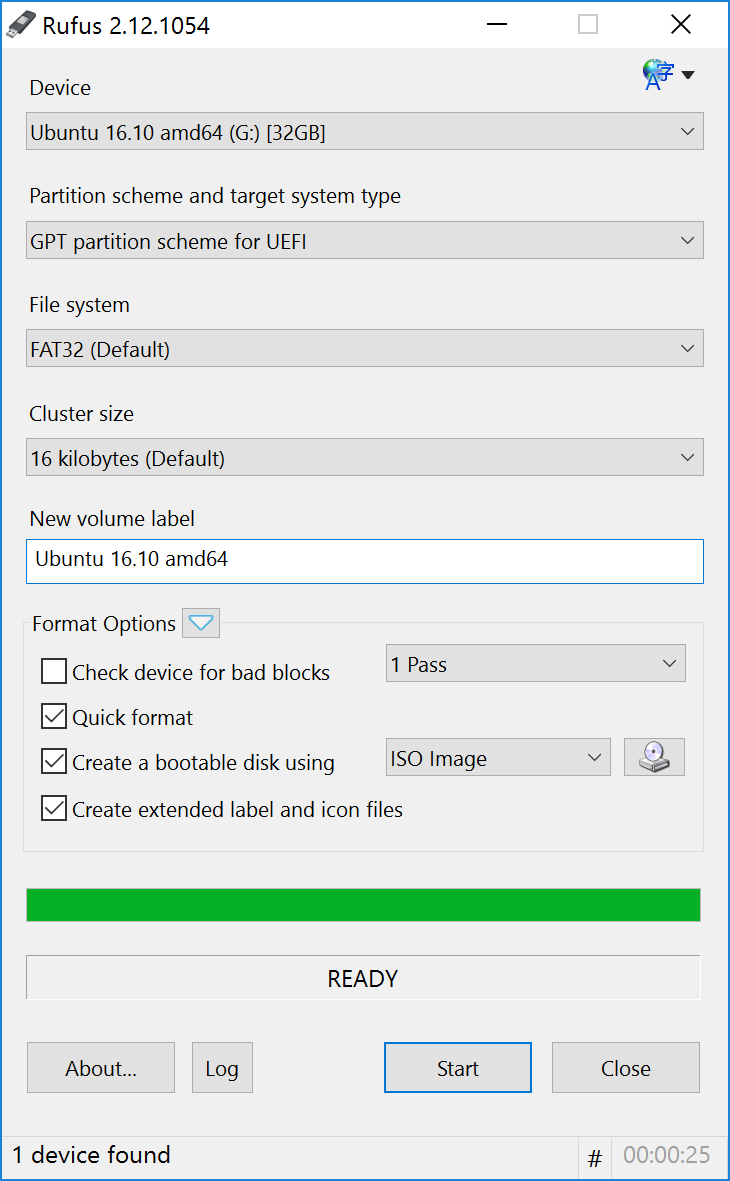
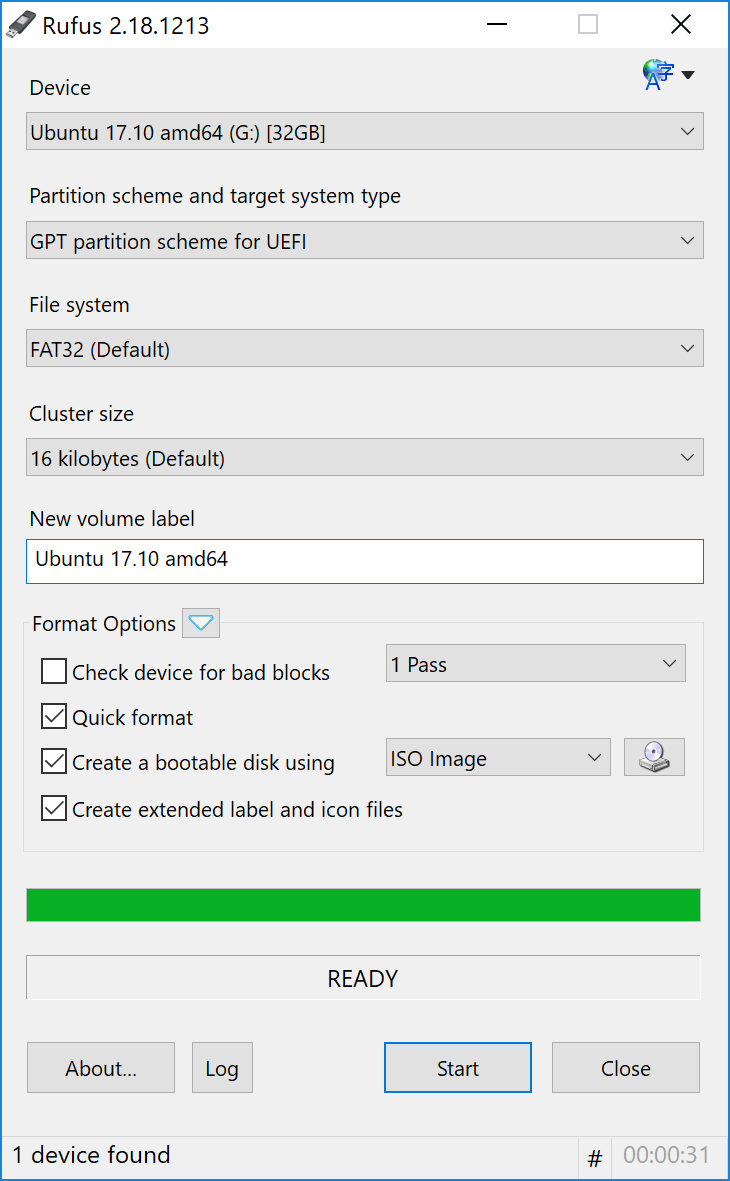
update for 2.18 release

diff --git a/public_html/index.php b/public_html/index.php
@@ -1,13 +1,13 @@
 <!DOCTYPE html>
 <?
-$latest_version = "2.17";
+$latest_version = "2.18";
 $previous_version = "2.14";
-$latest_date = "2017.09.12";
+$latest_date = "2017.11.07";
 $previous_date = "2017.04.10";
-$lang1 = array('da', 'Danish', 'Denmark');
+$lang1 = array('', 'Danish', 'Denmark');
 $lang2 = array('', 'Malay', 'Malaysia');
 $bugfix = false;
-$exe_size = 944;
+$exe_size = 945;
 $src_size = 2.4;
 $langs = array(
   'en_US' => array('en', 'English (International)'),
@@ -329,15 +329,14 @@ case "he":
 		<h2><?= /* You are encouraged to append the translation for "(in English)" after "Changelog" as it is only available in English */ _("Changelog");?></h2>
 		<ul dir="<?= $dir;?>">
 			<li><?= $full_version;?><ul>
-				<li><span dir="ltr">Add support for Debian 9 live ISOs in UEFI mode</span></li>
-				<li><span dir="ltr">Add support for Super Floppy Disk "partitioning" mode</span></li>
-				<li><span dir="ltr">Add support for more non-USB card readers</span></li>
-				<li><span dir="ltr">Strengthen download update checks, to prevent attack scenarios that leverage user unawareness</span></li>
-				<li><span dir="ltr">Fix an issue with Spanish translation prompts not displaying properly</span></li>
-				<li><span dir="ltr">Fix an issue with Windows To Go support on some non-official Windows ISOs</span></li>
-				<li><span dir="ltr">Fix an issue with log autoscrolling</span></li>
-				<li><span dir="ltr">Fix an issue when using <code>A:</code> or <code>B:</code> as drive letters</span></li>
+				<li><span dir="ltr">Ensure that the same drive is reselected on device refresh</span></li>
+				<li><span dir="ltr">Add a cheat mode to cycle the USB port of currently selected device</span></li>
+				<li><span dir="ltr">Make lookup for updatable .cfg file more generic (e.g. ESET SysRescue)</span></li>
+				<li><span dir="ltr">Fix handling of multiextent ISOs (e.g. BlackArch Linux)</span></li>
+				<li><span dir="ltr">Fix propagation of image decompression errors</span></li>
+				<li><span dir="ltr">Update grub4dos to latest</span></li>
 			</ul></li>
+			<p><font color="#ffa520"><b>RUFUS 2.18 IS THE LAST RELEASE TO SUPPORT <i>WINDOWS XP</i> AND <i>WINDOWS VISTA</i>.<br/>FUTURE RELEASES WILL <u>NO LONGER</u> BE COMPATIBLE WITH THESE PLATFORMS!</b></font></p>
 			<? if($bugfix):?>
 			<br />
 			<li><?= $prev_version;?><ul>
